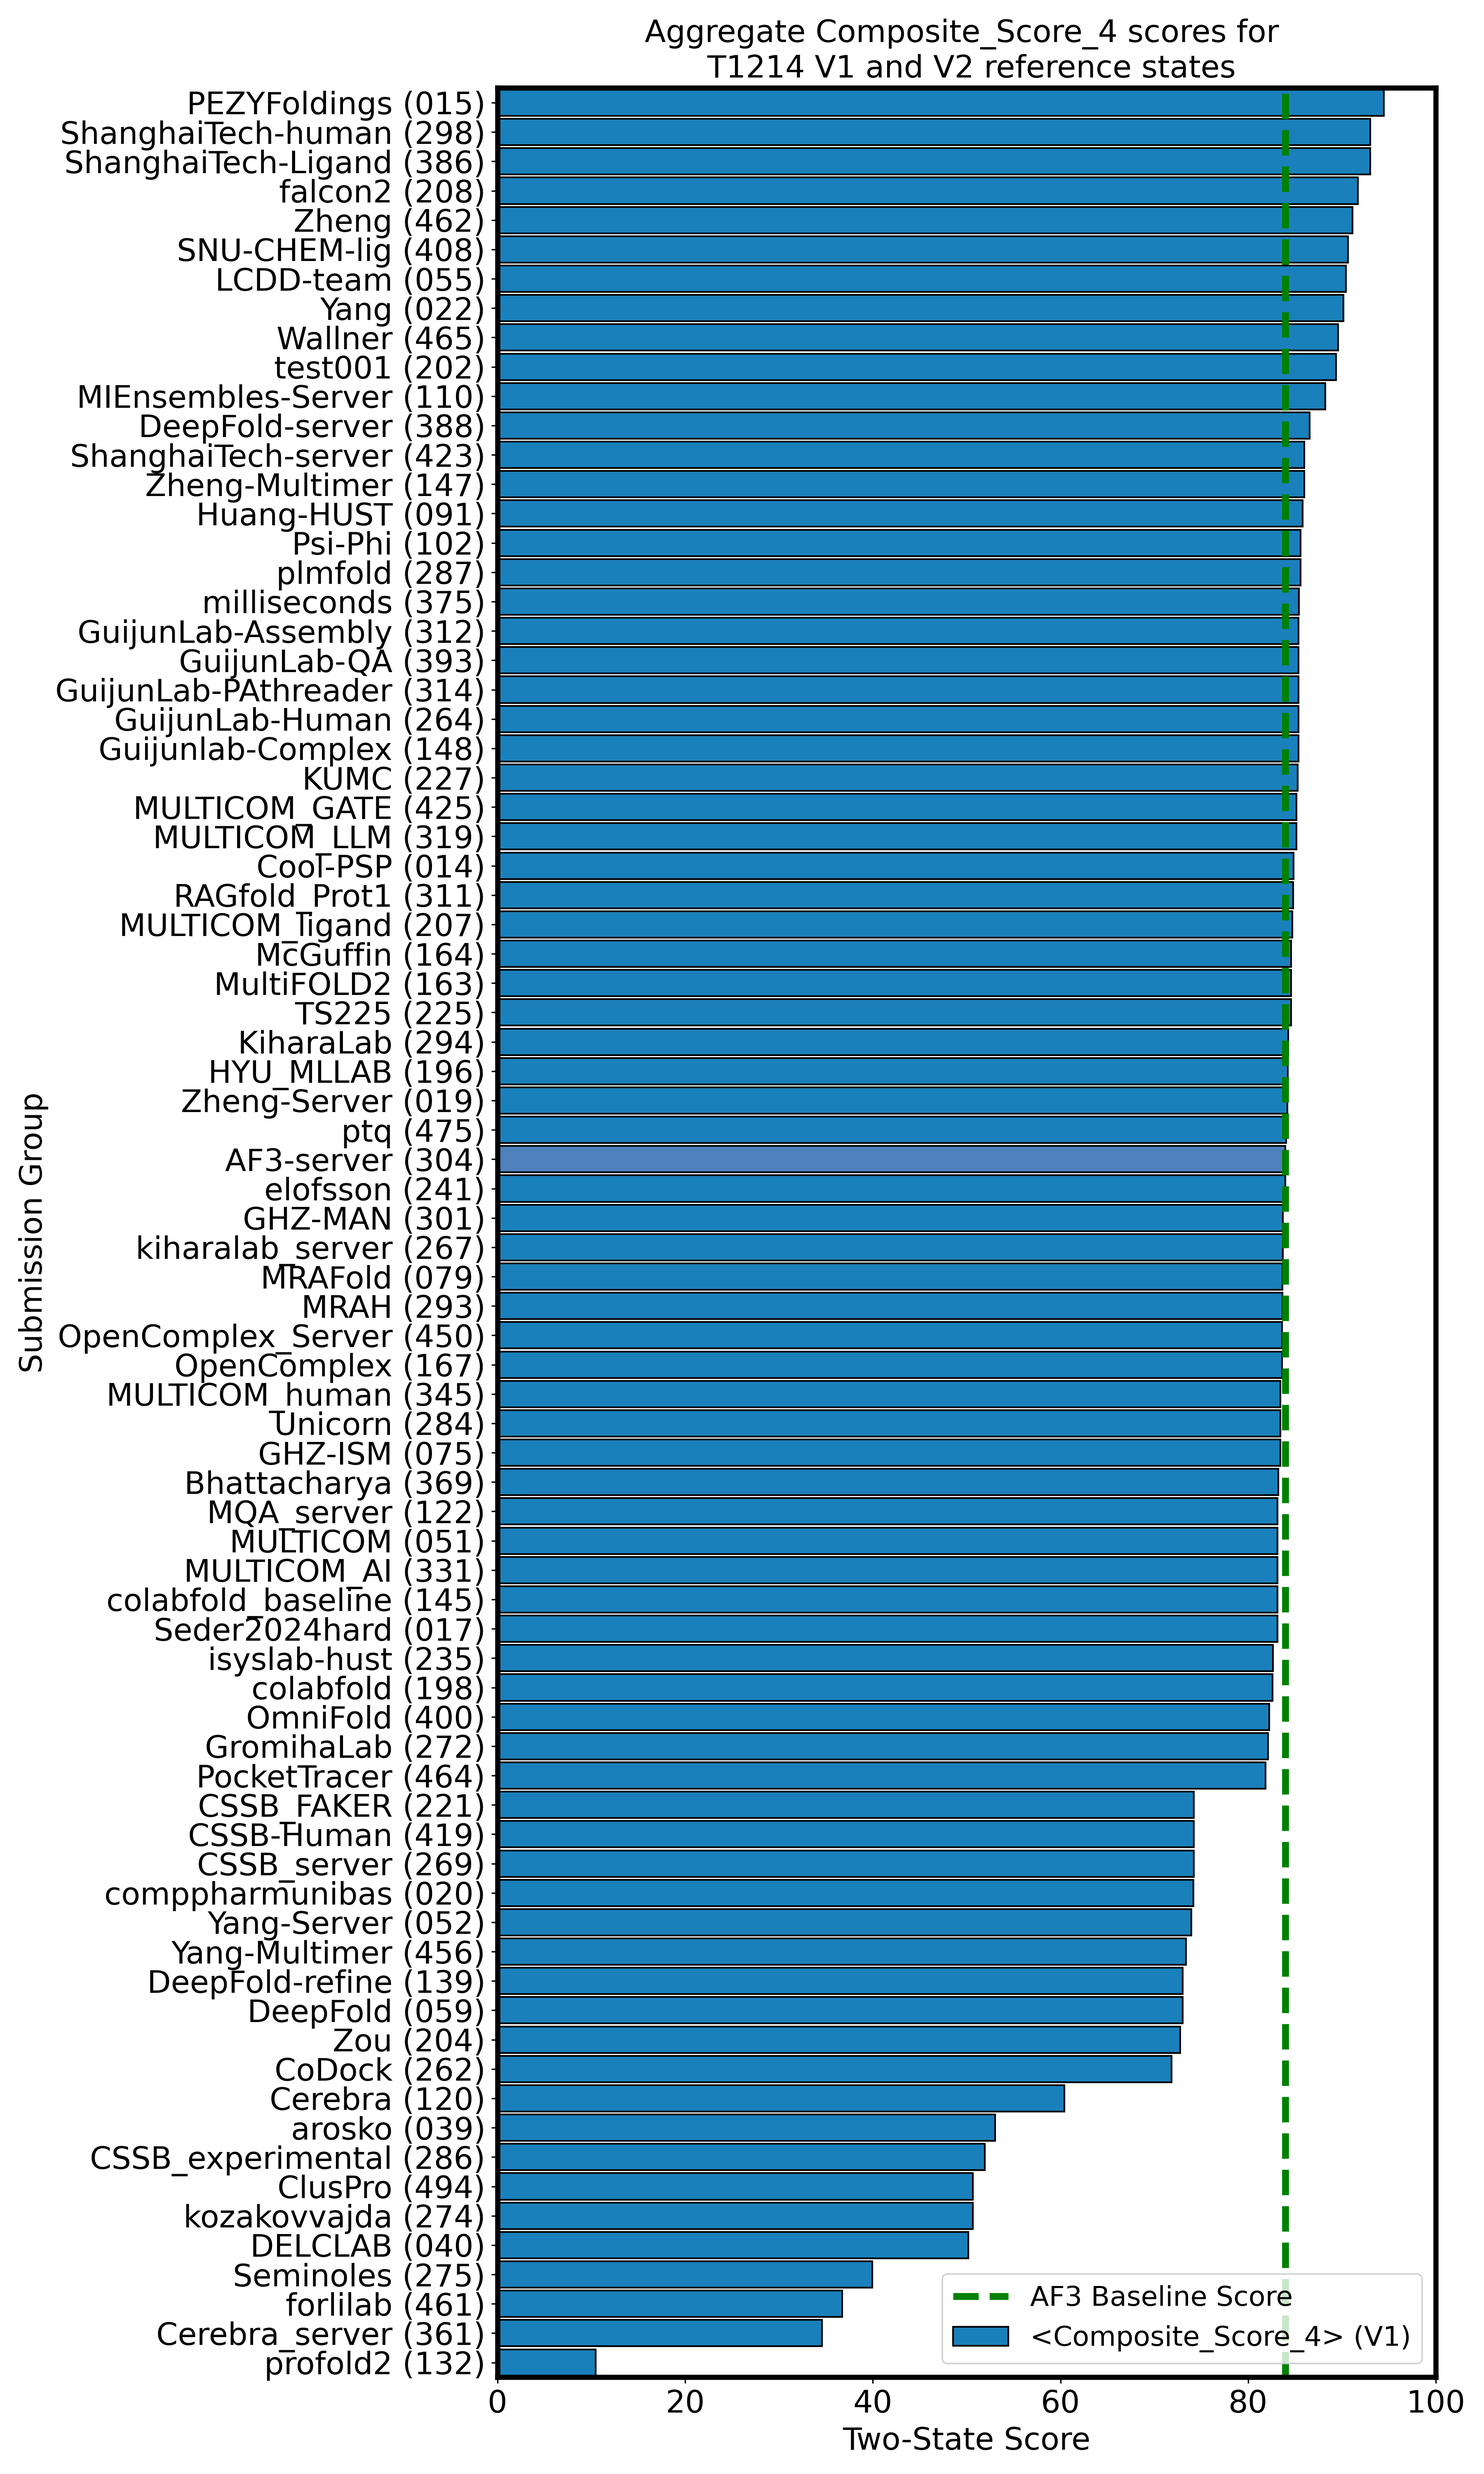
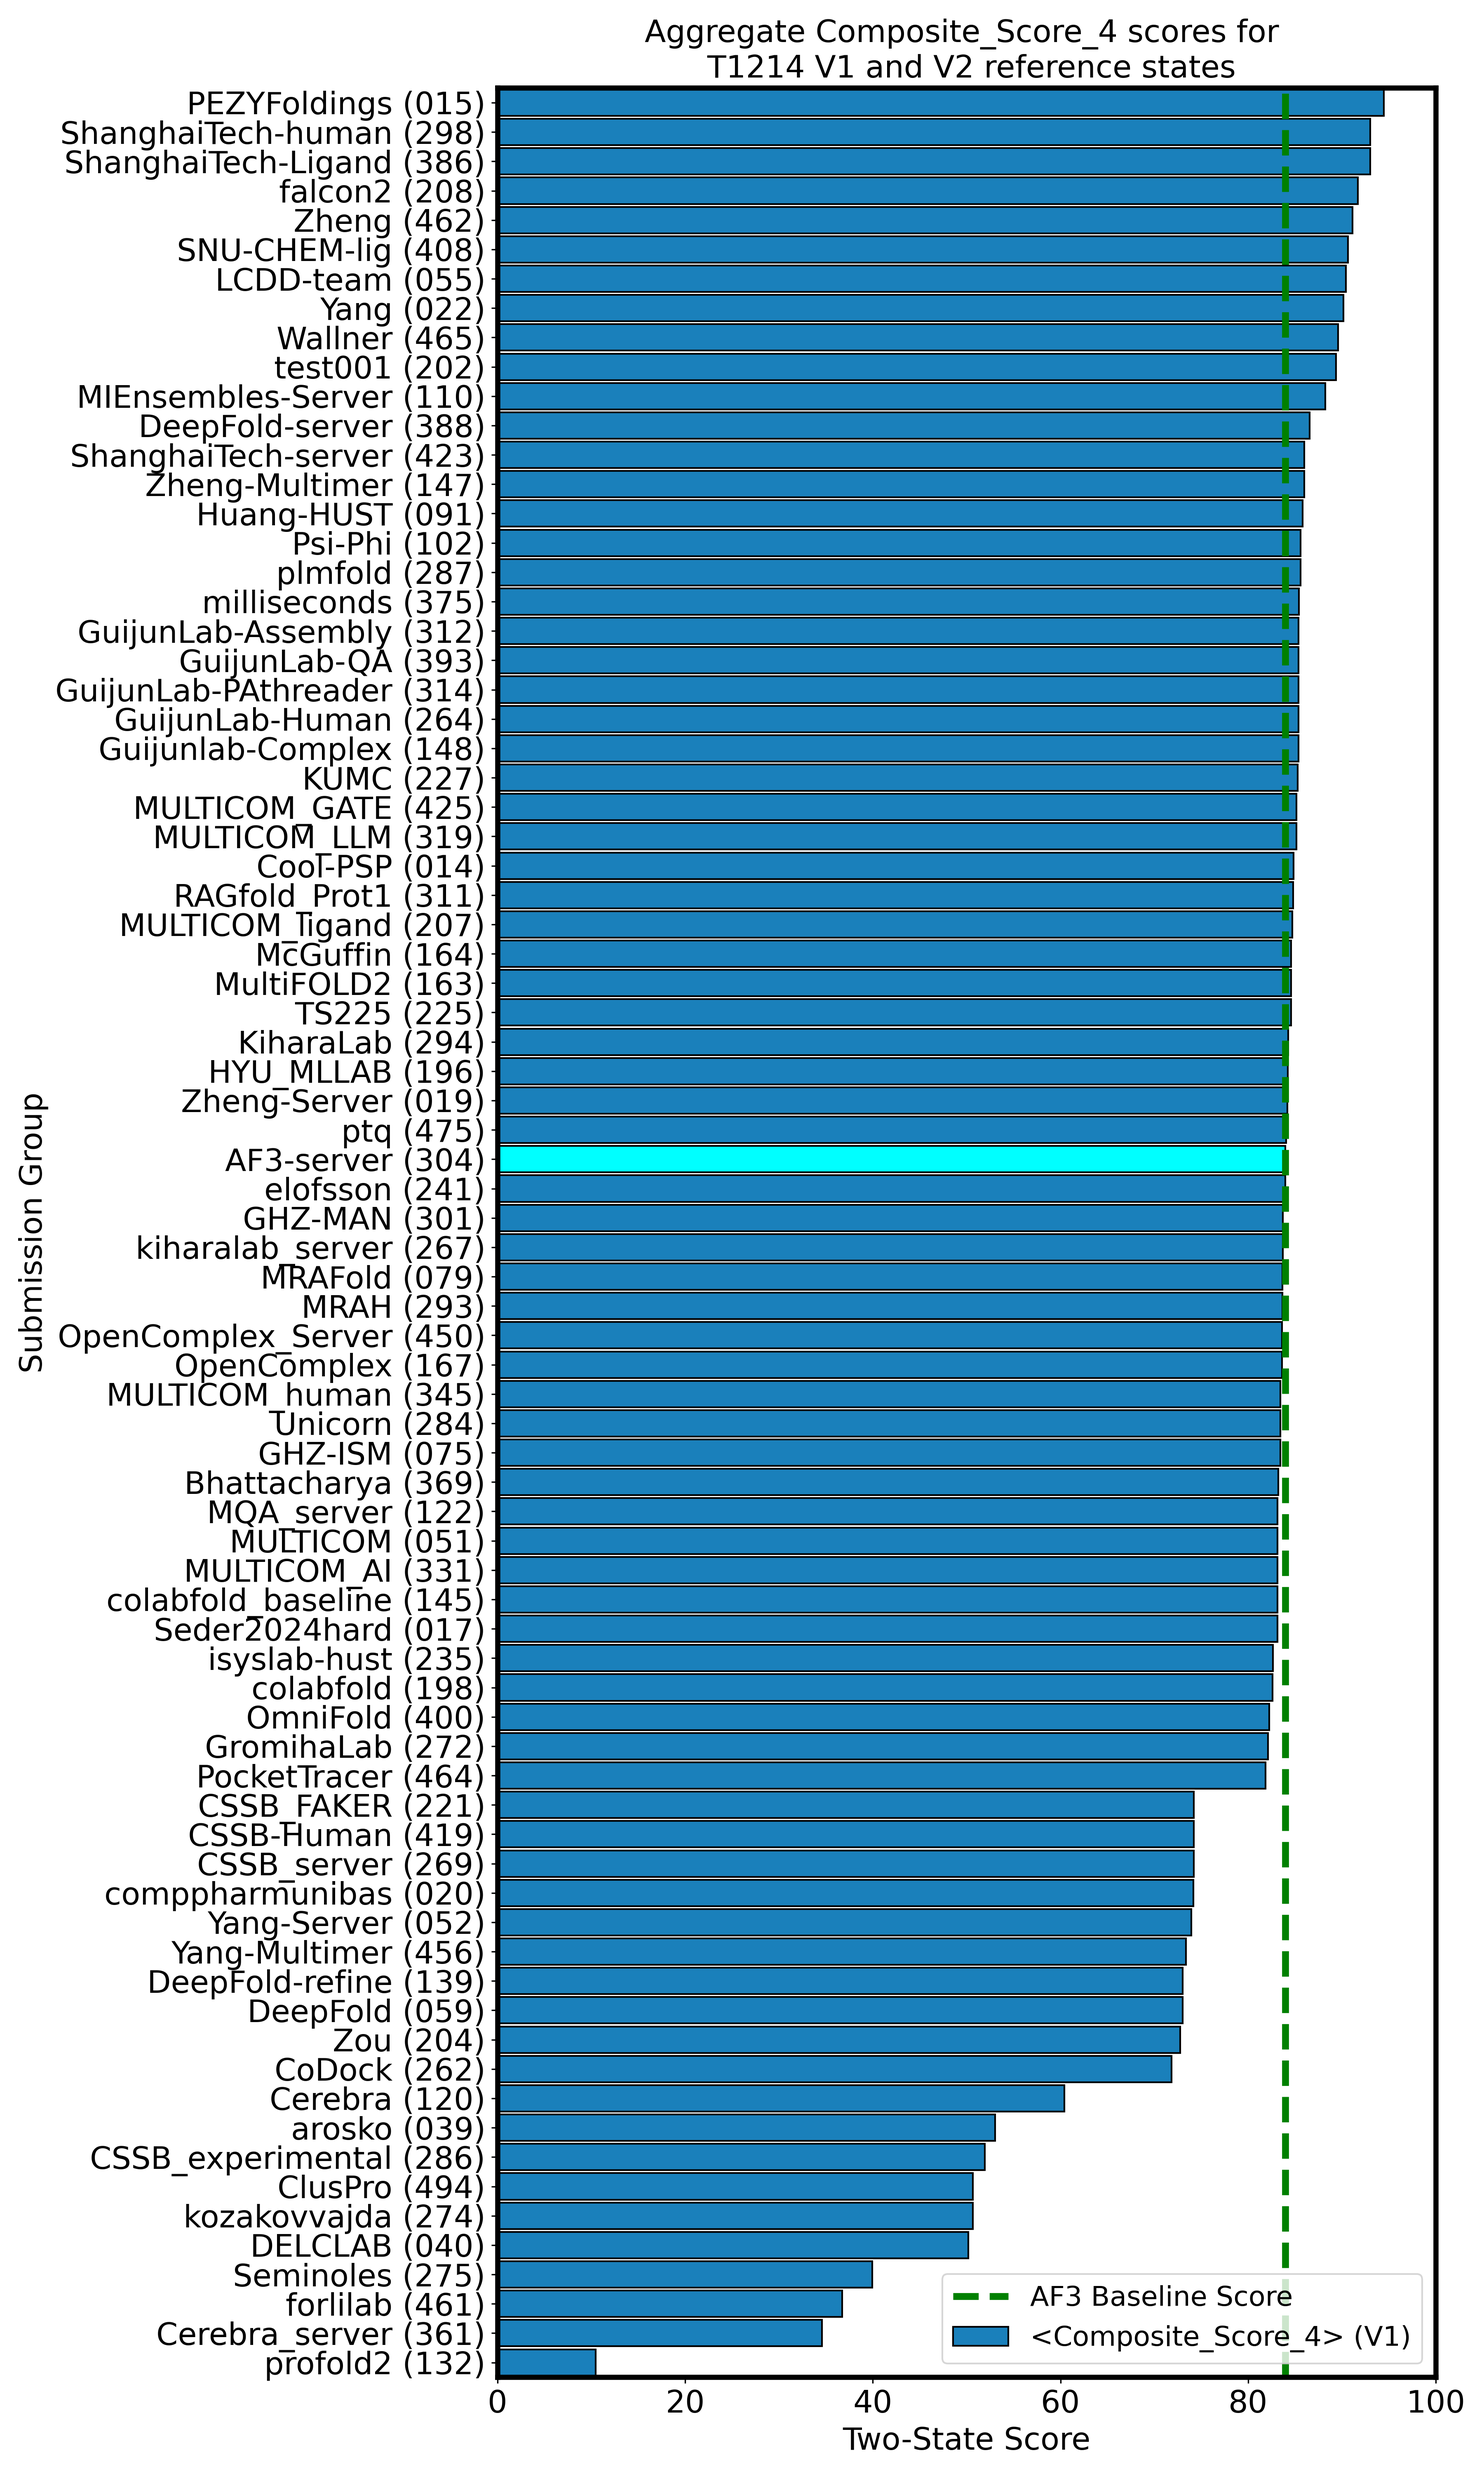
added cyan bar to T1214 single state for group 304

Changed region(s): [[0.3422, 0.4363, 0.8711, 0.4987]]

diff --git a/process_single_state_score.py b/process_single_state_score.py
@@ -169,8 +169,7 @@ def create_stacked_bar(combined_df, ID, score, horizontal=False, star=False, out
     v1_colors = ['#1A80BB'] * num_groups
     if '304' in check_labels:
         idx_304 = list(check_labels).index('304')
-        if not star:
-            v1_colors[idx_304] = '#4F81BD'  # bluish
+        v1_colors[idx_304] = 'cyan' 
     if num_groups > 100:
         if score != "TMscore":
             bar_kwargs_v1 = {bar_size_param: bar_size, 'label': f'<{score.replace('Updated_','')}> (V1)', 'color': v1_colors}
